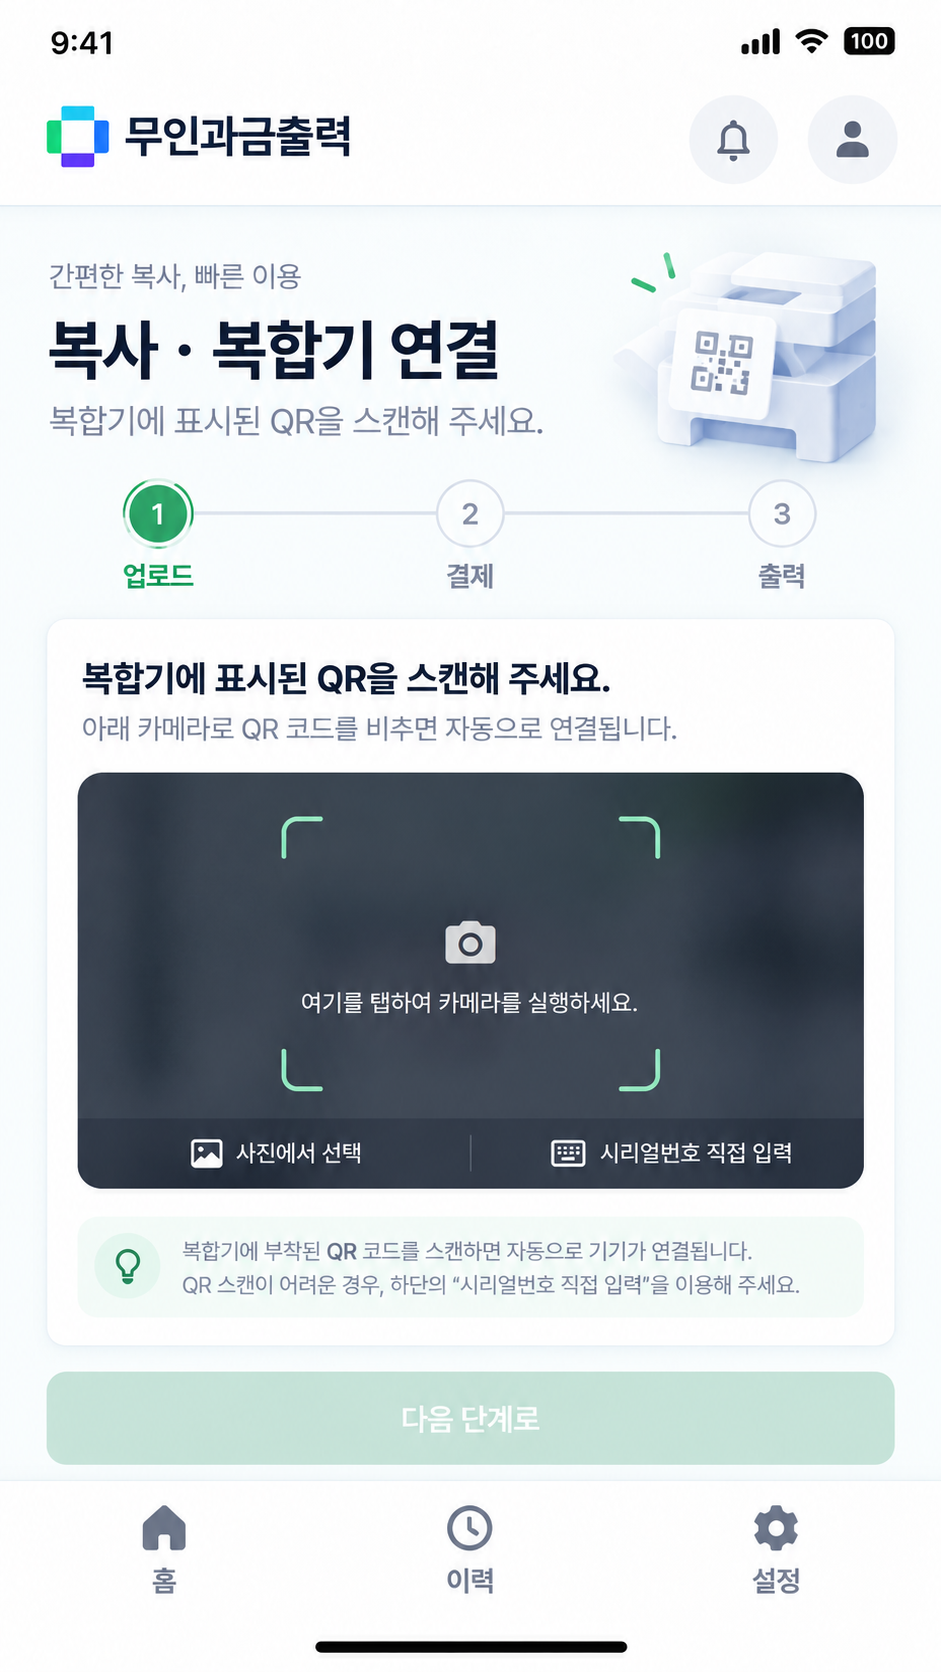
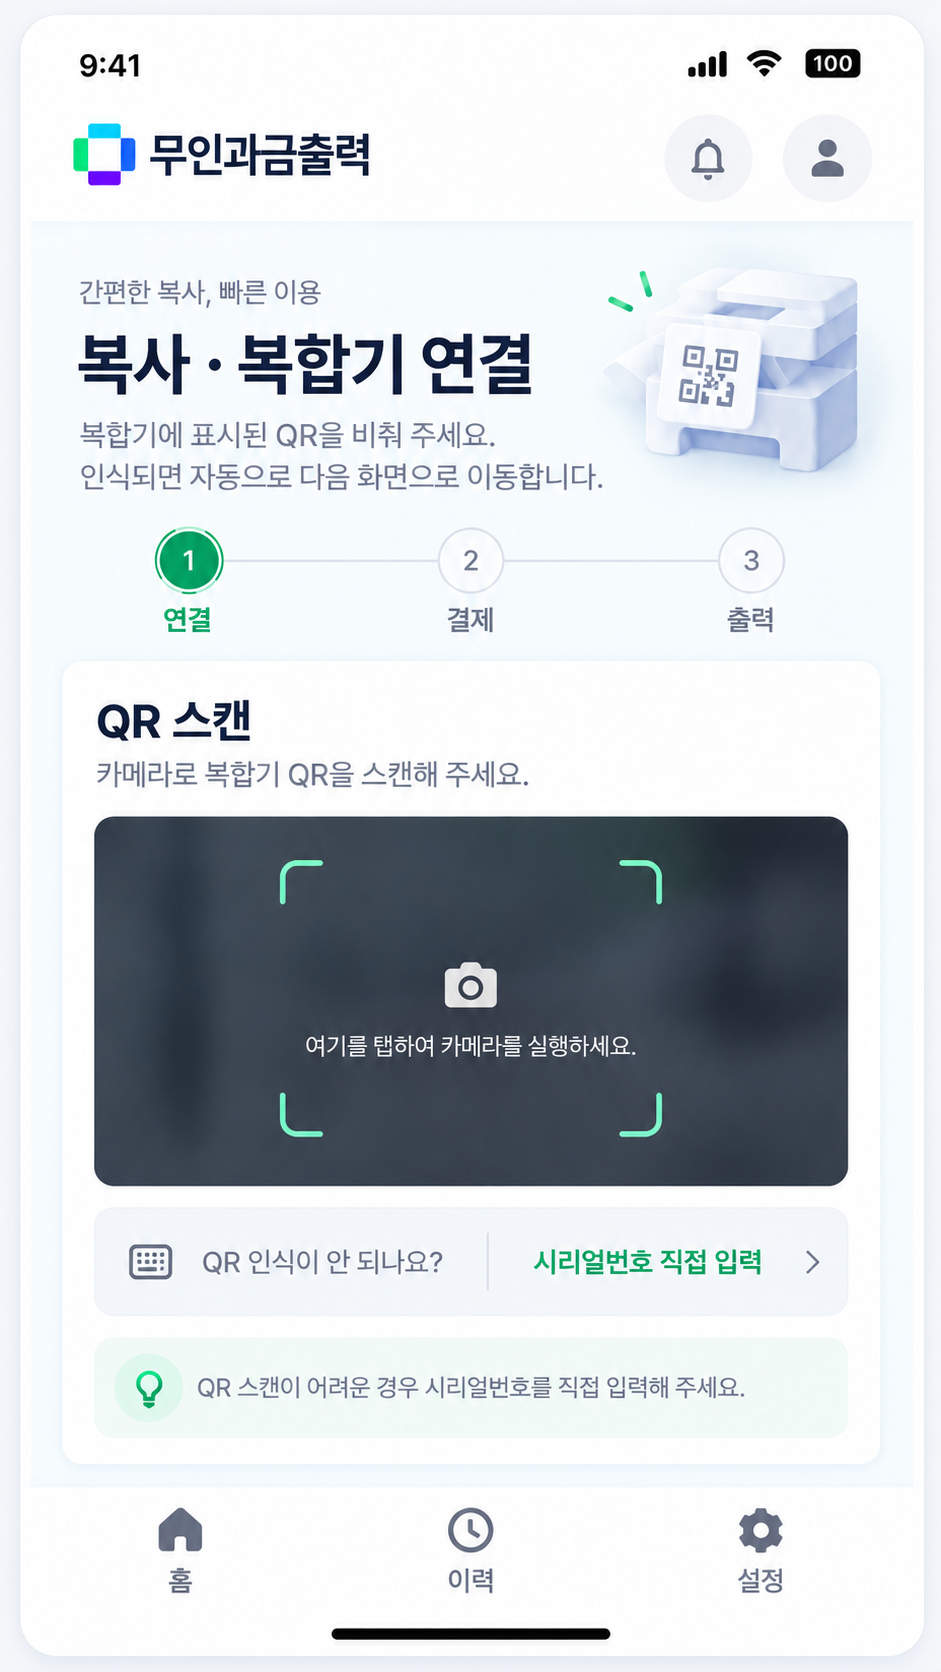
올려 준 새 시안으로 TO-BE 화면을 교체
깃헙 루트에 올려 준 아홉 장을 제자리로 옮긴다.

  tobe-mobile-login-after        → proposal/shots/login.png
  tobe-mobile-printupload-after  → proposal/shots/print-checkout.png
  tobe-mobile-qrlink-after       → proposal/shots/copy.png
  tobe-mobile-setting-cost-after → proposal/shots/cost.png
  tobe-mobile-setting-refund-after   → proposal/shots/refund.png
  tobe-mobile-setting-solution-after → proposal/shots/troubleshoot.png
  tobe-printer-home-after        → proposal/shots/device-home.png
  tobe-printer-copy-after2       → proposal/shots/device-copy.png
  tobe-printer-copystart-after   → proposal/shots/device-copy-start.png (새 화면)

시안이 바뀌면 표시 자리가 어긋나므로 좌표를 다시 잡았다.

- 변경점 좌표를 새 이미지에서 다시 재 넣었다 (login, copy, cost, refund,
  troubleshoot, 파일확인·인쇄옵션·금액확인, device-home, device-copy)
- 복사는 시안이 새로 와서 스캔·팩스와 공유하던 좌표를 나눴다
- 히트박스도 다시 재었다. 로그인에는 비회원으로 이용하기 버튼이 없어져
  그 자리를 없앴고, 복사에는 사진에서 선택이 없어져 뺐다
- 파일 확인 및 결제는 기기 목업 안에 그려져 있어 상단·하단 좌표를 따로 뒀다
- 복합기 복사 묶음에 복사 시작을 앞에 붙였다
  (복사 시작 → 복사 → 작업 완료 → 결제 요청)

Claude-Session: https://claude.ai/code/session_01T5u2QXejYEkjRZPDhEWwp2

diff --git a/public/assets/js/screens.js b/public/assets/js/screens.js
@@ -58,7 +58,7 @@ window.REVIEW = {
       id: 'device', label: '복합기',
       groups: [
         { id: 'device-home', label: '대기·연결', screens: ['device-home'] },
-        { id: 'device-copy', label: '복사',      screens: ['device-copy', 'device-copy-done', 'device-payment'] },
+        { id: 'device-copy', label: '복사',      screens: ['device-copy-start', 'device-copy', 'device-copy-done', 'device-payment'] },
         { id: 'device-scan', label: '스캔',      screens: ['device-scan'] },
         { id: 'device-fax',  label: '팩스',      screens: ['device-fax'] }
       ]
@@ -322,7 +322,7 @@ window.REVIEW = {
             '설정·결제·출력 세 단계로 줄였습니다.',
           targets: {
             current:  [{ x: 0, y: 6.3, w: 100, h: 7.5 }],
-            proposal: [{ x: 16, y: 25.1, w: 68, h: 6.0 }]
+            proposal: [{ x: 20.5, y: 21.8, w: 57.5, h: 5.0 }]
           }
         },
         {
@@ -333,7 +333,7 @@ window.REVIEW = {
             '연속해서 확인할 수 있도록 통합했습니다.',
           targets: {
             current:  [{ x: 3.8, y: 14.5, w: 92.5, h: 20.5 }],
-            proposal: [{ x: 3.7, y: 32.6, w: 92.5, h: 56.8 }]
+            proposal: [{ x: 13.8, y: 28.0, w: 72.8, h: 57.0 }]
           }
         },
         {
@@ -343,7 +343,7 @@ window.REVIEW = {
             '선택한 옵션을 카드 안에서 바로 보여 줍니다.',
           targets: {
             current:  [{ x: 3.8, y: 25.1, w: 92.5, h: 9.5 }],
-            proposal: [{ x: 3.7, y: 32.6, w: 92.5, h: 14.1 }]
+            proposal: [{ x: 13.8, y: 28.0, w: 72.8, h: 31.3 }]
           }
         }
       ]
@@ -361,7 +361,7 @@ window.REVIEW = {
             '현재 설정을 보면서 바로 변경할 수 있도록 했습니다.',
           targets: {
             current:  [{ x: 0, y: 46.9, w: 100, h: 53.1 }],
-            proposal: [{ x: 3.7, y: 47.8, w: 92.5, h: 28.4 }]
+            proposal: [{ x: 13.8, y: 60.3, w: 72.8, h: 17.3 }]
           }
         },
         {
@@ -370,7 +370,7 @@ window.REVIEW = {
           description: 'AS-IS 시트에는 금액이 없었습니다. TO-BE는 옵션 바로 아래에 ' +
             '예상 결제 금액과 결제 버튼이 함께 있습니다.',
           targets: {
-            proposal: [{ x: 6.9, y: 77.2, w: 86.0, h: 6.6 }]
+            proposal: [{ x: 14.3, y: 78.0, w: 71.8, h: 6.5 }]
           }
         },
         {
@@ -379,7 +379,7 @@ window.REVIEW = {
           description: '여섯 단계를 모두 표시하던 것을 설정·결제·출력 세 단계로 줄였습니다.',
           targets: {
             current:  [{ x: 0, y: 6.3, w: 100, h: 7.5 }],
-            proposal: [{ x: 16, y: 25.1, w: 68, h: 6.0 }]
+            proposal: [{ x: 20.5, y: 21.8, w: 57.5, h: 5.0 }]
           }
         }
       ]
@@ -398,7 +398,7 @@ window.REVIEW = {
           targets: {
             current:  [{ x: 3.8, y: 15.6, w: 92.5, h: 8.0 },
                        { x: 3.8, y: 27.7, w: 92.5, h: 8.2 }],
-            proposal: [{ x: 6.9, y: 77.2, w: 86.0, h: 6.6 }]
+            proposal: [{ x: 14.3, y: 78.0, w: 71.8, h: 6.5 }]
           }
         },
         {
@@ -408,7 +408,7 @@ window.REVIEW = {
             '금액이 적힌 결제 버튼 하나로 정리했습니다.',
           targets: {
             current:  [{ x: 3.8, y: 84.5, w: 92.5, h: 14.6 }],
-            proposal: [{ x: 6.9, y: 84.9, w: 86.0, h: 4.5 }]
+            proposal: [{ x: 14.3, y: 84.8, w: 71.8, h: 4.2 }]
           }
         },
         {
@@ -417,7 +417,7 @@ window.REVIEW = {
           description: '여섯 단계를 모두 표시하던 것을 설정·결제·출력 세 단계로 줄였습니다.',
           targets: {
             current:  [{ x: 0, y: 6.4, w: 100, h: 7.4 }],
-            proposal: [{ x: 16, y: 25.1, w: 68, h: 6.0 }]
+            proposal: [{ x: 20.5, y: 21.8, w: 57.5, h: 5.0 }]
           }
         }
       ]
@@ -590,7 +590,7 @@ window.REVIEW = {
             '로그인 이후 무엇을 할 수 있는지 이해하기 쉽게 구성했습니다.',
           targets: {
             current:  [{ x: 7.0, y: 3.8, w: 86.0, h: 6.6 }],
-            proposal: [{ x: 5.0, y: 11.3, w: 90.0, h: 12.8 }]
+            proposal: [{ x: 9.5, y: 15.5, w: 51.0, h: 12.0 }]
           }
         },
         {
@@ -602,7 +602,7 @@ window.REVIEW = {
           targets: {
             current:  [{ x: 7.0, y: 44.3, w: 86.0, h: 23.8 },
                        { x: 7.0, y: 87.8, w: 86.0, h: 6.4 }],
-            proposal: [{ x: 5.0, y: 58.8, w: 90.0, h: 23.5 }]
+            proposal: [{ x: 10.0, y: 60.3, w: 80.0, h: 22.7 }]
           }
         },
         {
@@ -613,9 +613,9 @@ window.REVIEW = {
             '별도 경로로 제공해 로그인 문제 발생 시 대응 경로를 쉽게 찾을 수 있도록 했습니다.',
           targets: {
             current:  [{ x: 30.0, y: 94.6, w: 40.0, h: 4.2 }],
-            proposal: [{ x: 71.5, y: 39.2, w: 23.0, h: 4.2 },
-                       { x: 26.0, y: 93.0, w: 48.0, h: 4.4 },
-                       { x: 74.5, y: 4.6, w: 20.5, h: 5.6 }]
+            proposal: [{ x: 72.0, y: 41.3, w: 16.0, h: 2.7 },
+                       { x: 26.5, y: 90.5, w: 46.5, h: 3.0 },
+                       { x: 75.5, y: 8.5, w: 14.8, h: 3.3 }]
           }
         }
       ],
@@ -733,7 +733,7 @@ window.REVIEW = {
             'TO-BE에서는 흑백·컬러 장당 요금과 적용 기준을 한 화면에서 확인할 수 있도록 ' +
             '구성했습니다.',
           targets: {
-            proposal: [{ x: 4.5, y: 32.5, w: 91.0, h: 20.0 }]
+            proposal: [{ x: 8.5, y: 41.5, w: 83.0, h: 36.5 }]
           }
         },
         {
@@ -742,8 +742,7 @@ window.REVIEW = {
           description: '지원 용지와 인쇄 옵션에 따라 요금이 달라질 수 있다는 정보를 함께 제공해 ' +
             '실제 결제 금액이 달라지는 기준을 미리 확인할 수 있도록 했습니다.',
           targets: {
-            proposal: [{ x: 4.5, y: 54.0, w: 91.0, h: 17.0 },
-                       { x: 4.5, y: 72.5, w: 91.0, h: 17.0 }]
+            proposal: [{ x: 8.5, y: 79.3, w: 83.0, h: 15.5 }]
           }
         }
       ],
@@ -800,7 +799,7 @@ window.REVIEW = {
           description: 'AS-IS에서는 어떤 경우에 환불되는지 기준을 확인하기 어려웠습니다. ' +
             'TO-BE에서는 미출력, 출력 오류, 부분 출력으로 상황을 나누어 환불 기준을 안내합니다.',
           targets: {
-            proposal: [{ x: 4.5, y: 23.5, w: 91.0, h: 37.5 }]
+            proposal: [{ x: 5.5, y: 16.8, w: 89.5, h: 43.5 }]
           }
         },
         {
@@ -809,8 +808,8 @@ window.REVIEW = {
           description: '환불 처리 기간과 문의 경로를 함께 제공해 문제가 발생했을 때 ' +
             '이후 절차를 확인할 수 있도록 했습니다.',
           targets: {
-            proposal: [{ x: 4.5, y: 62.5, w: 91.0, h: 11.0 },
-                       { x: 4.5, y: 75.5, w: 91.0, h: 8.5 }]
+            proposal: [{ x: 5.5, y: 65.3, w: 89.5, h: 12.0 },
+                       { x: 5.5, y: 79.3, w: 89.5, h: 7.3 }]
           }
         }
       ],
@@ -830,7 +829,7 @@ window.REVIEW = {
             '찾기 어려웠습니다. TO-BE에서는 결제 후 미출력, 용지 걸림·출력 오류, 파일 오류, ' +
             '기기 연결 문제를 유형별로 구분했습니다.',
           targets: {
-            proposal: [{ x: 4.5, y: 23.0, w: 91.0, h: 46.5 }]
+            proposal: [{ x: 5.5, y: 24.8, w: 89.0, h: 57.5 }]
           }
         },
         {
@@ -839,7 +838,7 @@ window.REVIEW = {
           description: '안내만으로 해결되지 않는 경우 같은 화면에서 문의하기로 이어질 수 있도록 ' +
             '구성했습니다.',
           targets: {
-            proposal: [{ x: 4.5, y: 71.5, w: 91.0, h: 15.5 }]
+            proposal: [{ x: 5.5, y: 84.3, w: 89.0, h: 13.5 }]
           }
         }
       ],
@@ -871,7 +870,7 @@ window.REVIEW = {
               { x: 4.0, y: 30.3, w: 57.9, h: 18.6 },
               { x: 70.0, y: 33.0, w: 22.5, h: 42.5 }
             ],
-            proposal: [{ x: 54.1, y: 17.4, w: 25.2, h: 52.6 }]
+            proposal: [{ x: 53.5, y: 24.5, w: 24.5, h: 51.5 }]
           }
         },
         {
@@ -882,8 +881,8 @@ window.REVIEW = {
             'QR 안내에도 연결될 기기를 명시했습니다.',
           targets: {
             proposal: [
-              { x: 65.7, y: 4.8, w: 16.6, h: 4.5 },
-              { x: 57.5, y: 62.7, w: 18.5, h: 4.0 }
+              { x: 62.3, y: 14.3, w: 17.5, h: 5.0 },
+              { x: 6.3, y: 46.3, w: 37.5, h: 4.5 }
             ]
           }
         },
@@ -895,7 +894,8 @@ window.REVIEW = {
             '복합기에서 설정` 순서로 정리해 모바일과 복합기의 역할을 단계별로 구분했습니다.',
           targets: {
             current:  [{ x: 4.0, y: 51.5, w: 57.9, h: 36.3 }],
-            proposal: [{ x: 4.7, y: 74.5, w: 71.5, h: 13.5 }]
+            /* 새 시안에는 하단 3단계 띠가 없다. 순서가 머리말과 서비스 카드로 옮겨졌다 */
+            proposal: [{ x: 5.8, y: 24.5, w: 46.5, h: 51.5 }]
           }
         }
       ],
@@ -916,7 +916,7 @@ window.REVIEW = {
             '영역으로 구성해 현재 선택값을 한 화면에서 확인할 수 있도록 했습니다.',
           targets: {
             current:  [{ x: 29.8, y: 15.6, w: 67.5, h: 55.9 }],
-            proposal: [{ x: 31.0, y: 13.3, w: 65.4, h: 71.7 }]
+            proposal: [{ x: 31.3, y: 18.5, w: 64.5, h: 62.5 }]
           }
         },
         {
@@ -926,10 +926,7 @@ window.REVIEW = {
             '어려웠습니다. TO-BE에서는 장당 요금과 현재 설정 기준의 예상 금액을 함께 표시해 ' +
             '설정과 비용을 같은 화면에서 확인할 수 있도록 했습니다.',
           targets: {
-            proposal: [
-              { x: 61.9, y: 16.5, w: 34.3, h: 5.3 },
-              { x: 4.5, y: 67.5, w: 23.9, h: 15.0 }
-            ]
+            proposal: [{ x: 7.5, y: 63.5, w: 23.0, h: 17.0 }]
           }
         },
         {
@@ -941,7 +938,7 @@ window.REVIEW = {
             '변경했습니다.',
           targets: {
             current:  [{ x: 69.3, y: 87.8, w: 26.8, h: 8.4 }],
-            proposal: [{ x: 30.5, y: 87.7, w: 66.1, h: 8.5 }]
+            proposal: [{ x: 30.8, y: 83.0, w: 64.0, h: 9.0 }]
           }
         }
       ],
@@ -1041,6 +1038,9 @@ window.REVIEW = {
       ]
     }
   ];
+
+  /* 복사 설정에서 복사 시작을 누르는 단계. 다음이 결제 대기 상태다 */
+  DEVICE.unshift({ id: 'device-copy-start', label: '복사 시작', asis: 'device-copy' });
 
   /* 복사 뒤에 이어지는 두 화면 */
   DEVICE.push(
@@ -1229,9 +1229,11 @@ window.REVIEW = {
   );
 
   DEVICE.forEach(function (d) {
+    /* asis 를 적으면 AS-IS 는 그 화면의 그림을 같이 쓴다.
+     * 현재 서비스는 설정 화면 하나인데 TO-BE 에서 두 상태로 나뉜 자리다. */
     var s = {
       id: d.id, label: d.label, wide: true,
-      current:  { img: 'shots/' + d.id + '.png' },
+      current:  { img: 'shots/' + (d.asis || d.id) + '.png' },
       proposal: { img: 'proposal/shots/' + d.id + '.png' }
     };
     if (d.changes) { s.changes = d.changes; s.effects = d.effects; }
@@ -1288,11 +1290,30 @@ window.REVIEW = {
     '연결 방법을 한 화면에서 모두 확인할 수 있습니다'
   ];
 
-  ['copy', 'scan', 'fax'].forEach(function (id) {
+  /* 스캔·팩스는 예전 시안 그대로라 좌표를 공유한다 */
+  ['scan', 'fax'].forEach(function (id) {
     var s = R.screens.filter(function (x) { return x.id === id; })[0];
     if (!s) return;
     delete s.notes;
     s.changes = connChanges();
     s.effects = effects.slice();
   });
+
+  /* 복사는 시안이 새로 와서 짚는 자리만 다시 잡았다. 문구는 그대로다 */
+  (function () {
+    var s = R.screens.filter(function (x) { return x.id === 'copy'; })[0];
+    if (!s) return;
+    var boxes = {
+      frame:    { x: 9.5, y: 41.5, w: 80.5, h: 30.5 },
+      ways:     { x: 9.5, y: 73.0, w: 80.5, h: 6.0 },
+      fallback: { x: 9.5, y: 80.3, w: 80.5, h: 6.2 }
+    };
+    delete s.notes;
+    s.changes = connChanges().map(function (c) {
+      c.targets = { current: (c.targets || {}).current, proposal: [boxes[c.id]] };
+      if (!c.targets.current) delete c.targets.current;
+      return c;
+    });
+    s.effects = effects.slice();
+  })();
 })(window.REVIEW);

diff --git a/public/assets/js/shot.js b/public/assets/js/shot.js
@@ -175,16 +175,16 @@
     },
     login: {
       img: 'shots/login.png', alt: '로그인',
+      /* 새 시안에는 비회원으로 이용하기 버튼이 없어 그 자리를 두지 않는다 */
       hits: [
-        { l: 78.5, t: 6.0,  w: 17.5, h: 4.0, to: 'help.html',          name: '도움말' },
-        { l: 76.5, t: 39.6, w: 15.0, h: 2.2, to: 'find-password.html', name: '비밀번호 찾기' },
-        { l: 8.8,  t: 49.4, w: 82.2, h: 5.6, to: 'index.html',         name: '로그인' },
-        { l: 7.0,  t: 62.7, w: 86.0, h: 5.5, to: 'index.html',         name: '카카오로 시작하기' },
-        { l: 7.0,  t: 69.1, w: 86.0, h: 5.5, to: 'index.html',         name: '네이버로 시작하기' },
-        { l: 7.0,  t: 75.4, w: 86.0, h: 5.5, to: 'index.html',         name: 'Google로 시작하기' },
-        { l: 7.0,  t: 82.5, w: 86.0, h: 5.5, to: 'index.html',         name: '비회원으로 이용하기' },
-        { l: 47.5, t: 95.4, w: 10.0, h: 2.2, to: 'signup.html',        name: '회원가입' },
-        { l: 62.0, t: 95.4, w: 10.0, h: 2.2, to: 'support.html',       name: '고객센터' }
+        { l: 75.5, t: 8.5,  w: 14.8, h: 3.3, to: 'help.html',          name: '도움말' },
+        { l: 72.0, t: 41.3, w: 16.0, h: 2.7, to: 'find-password.html', name: '비밀번호 찾기' },
+        { l: 12.8, t: 51.0, w: 74.9, h: 5.8, to: 'index.html',         name: '로그인' },
+        { l: 10.7, t: 65.0, w: 78.8, h: 5.0, to: 'index.html',         name: '카카오로 시작하기' },
+        { l: 10.7, t: 71.3, w: 78.8, h: 5.0, to: 'index.html',         name: '네이버로 시작하기' },
+        { l: 10.7, t: 77.7, w: 78.8, h: 5.0, to: 'index.html',         name: 'Google로 시작하기' },
+        { l: 48.8, t: 90.8, w: 10.5, h: 2.4, to: 'signup.html',        name: '회원가입' },
+        { l: 63.4, t: 90.8, w: 9.5,  h: 2.4, to: 'support.html',       name: '고객센터' }
       ]
     },
     settings: {
@@ -226,10 +226,17 @@
     },
     'print-checkout': {
       img: 'shots/print-checkout.png', alt: '파일 확인 및 결제',
-      hits: P_APPBAR.concat([
-        { l: 71.5, t: 33.9, w: 23.0, h: 4.4, to: 'print.html',   name: '다른 파일 선택' },
-        { l: 4.0,  t: 81.5, w: 92.0, h: 6.4, to: 'payment.html', name: '250원 결제하기' }
-      ], taskTab(P_TAB))
+      /* 새 시안은 기기 목업 안에 그려져 있어 상단 아이콘 자리가 공용 좌표와 다르다 */
+      hits: [
+        { l: 67.3, t: 8.3,  w: 6.5,  h: 3.4, to: 'notifications.html', name: '알림' },
+        { l: 76.2, t: 8.3,  w: 6.9,  h: 3.4, to: 'settings.html',      name: '내 정보' },
+        { l: 64.3, t: 29.0, w: 20.5, h: 3.0, to: 'print.html',         name: '다른 파일 선택' },
+        { l: 14.3, t: 84.8, w: 71.8, h: 4.2, to: 'payment.html',       name: '1,250원 결제하기' }
+      ].concat(taskTab([
+        { l: 12.7, t: 89.5, w: 25.0, h: 5.5, to: 'index.html',    name: '홈' },
+        { l: 37.7, t: 89.5, w: 25.0, h: 5.5, to: 'history.html',  name: '이력' },
+        { l: 62.7, t: 89.5, w: 25.0, h: 5.5, to: 'settings.html', name: '설정' }
+      ]))
     },
     payment: {
       img: 'shots/payment.png', alt: '인쇄 · 모바일 결제',
@@ -245,10 +252,10 @@
     copy: {
       img: 'shots/copy.png', alt: '복사 · 복합기 연결',
       connect: '무인과금 복합기 A01',
+      /* 새 시안에는 사진에서 선택이 없다 */
       hits: P_APPBAR.concat([
-        { l: 5.5,  t: 43.3, w: 89.0, h: 22.0, act: 'connect', name: 'QR 스캔' },
-        { l: 8.0,  t: 65.4, w: 40.0, h: 5.6,  act: 'connect', name: '사진에서 선택' },
-        { l: 52.0, t: 65.4, w: 40.5, h: 5.6,  act: 'connect', name: '시리얼번호 직접 입력' }
+        { l: 9.5, t: 48.8, w: 80.5, h: 23.2, act: 'connect', name: 'QR 스캔' },
+        { l: 9.5, t: 73.0, w: 80.5, h: 5.8,  act: 'connect', name: '시리얼번호 직접 입력' }
       ], taskTab(P_TAB))
     },
     scan: {

diff --git a/tools/smoke.js b/tools/smoke.js
@@ -43,12 +43,12 @@ function ok(cond, name, extra) {
   await step('/proposal/settings.html?embed=1', '문제 해결', '/proposal/troubleshoot');
   await step('/proposal/history.html?embed=1', '결제하기', '/proposal/print-checkout');
   await step('/proposal/notifications.html?embed=1', '작업 상세', '/proposal/history');
-  await step('/proposal/login.html?embed=1', '비회원으로 이용하기', '/proposal/');
+  await step('/proposal/login.html?embed=1', '카카오로 시작하기', '/proposal/');
   await step('/home.html?embed=1', '인쇄', '/print');
   await step('/print.html?embed=1', '파일 선택', '/print-confirm');
   await step('/print-confirm.html?embed=1', '금액 확인', '/print-amount');
   await step('/print-amount.html?embed=1', '모바일로 결제', '/payment');
-  await step('/proposal/print-checkout.html?embed=1', '250원 결제하기', '/proposal/payment');
+  await step('/proposal/print-checkout.html?embed=1', '1,250원 결제하기', '/proposal/payment');
 
   /* 결제 수단은 화면을 옮기지 않고 고른 것만 표시한다 */
   for (const url of ['/payment.html?embed=1', '/proposal/payment.html?embed=1']) {
@@ -100,11 +100,11 @@ function ok(cond, name, extra) {
   /* 이전·다음은 고른 영역 안에서만 돈다 */
   const ring = [];
   for (let i = 0; i < 7; i++) { ring.push((await surfState()).n); await d.click('#next'); await d.waitForTimeout(250); }
-  ok(ring.join(' ') === '1 / 6 2 / 6 3 / 6 4 / 6 5 / 6 6 / 6 1 / 6', '복합기 안에서만 순환한다', ring.join(' '));
+  ok(ring.join(' ') === '1 / 7 2 / 7 3 / 7 4 / 7 5 / 7 6 / 7 7 / 7', '복합기 안에서만 순환한다', ring.join(' '));
 
   /* 복합기 네 화면은 AS-IS·TO-BE 이미지가 모두 붙어 있다 */
-  for (const id of ['device-home', 'device-copy', 'device-copy-done', 'device-payment',
-                    'device-scan', 'device-fax']) {
+  for (const id of ['device-home', 'device-copy-start', 'device-copy', 'device-copy-done',
+                    'device-payment', 'device-scan', 'device-fax']) {
     await d.goto(BASE + '/?surface=device&screen=' + id);
     await d.waitForTimeout(500);
     const shots = await d.$$eval('.stage .shotimg', els =>
